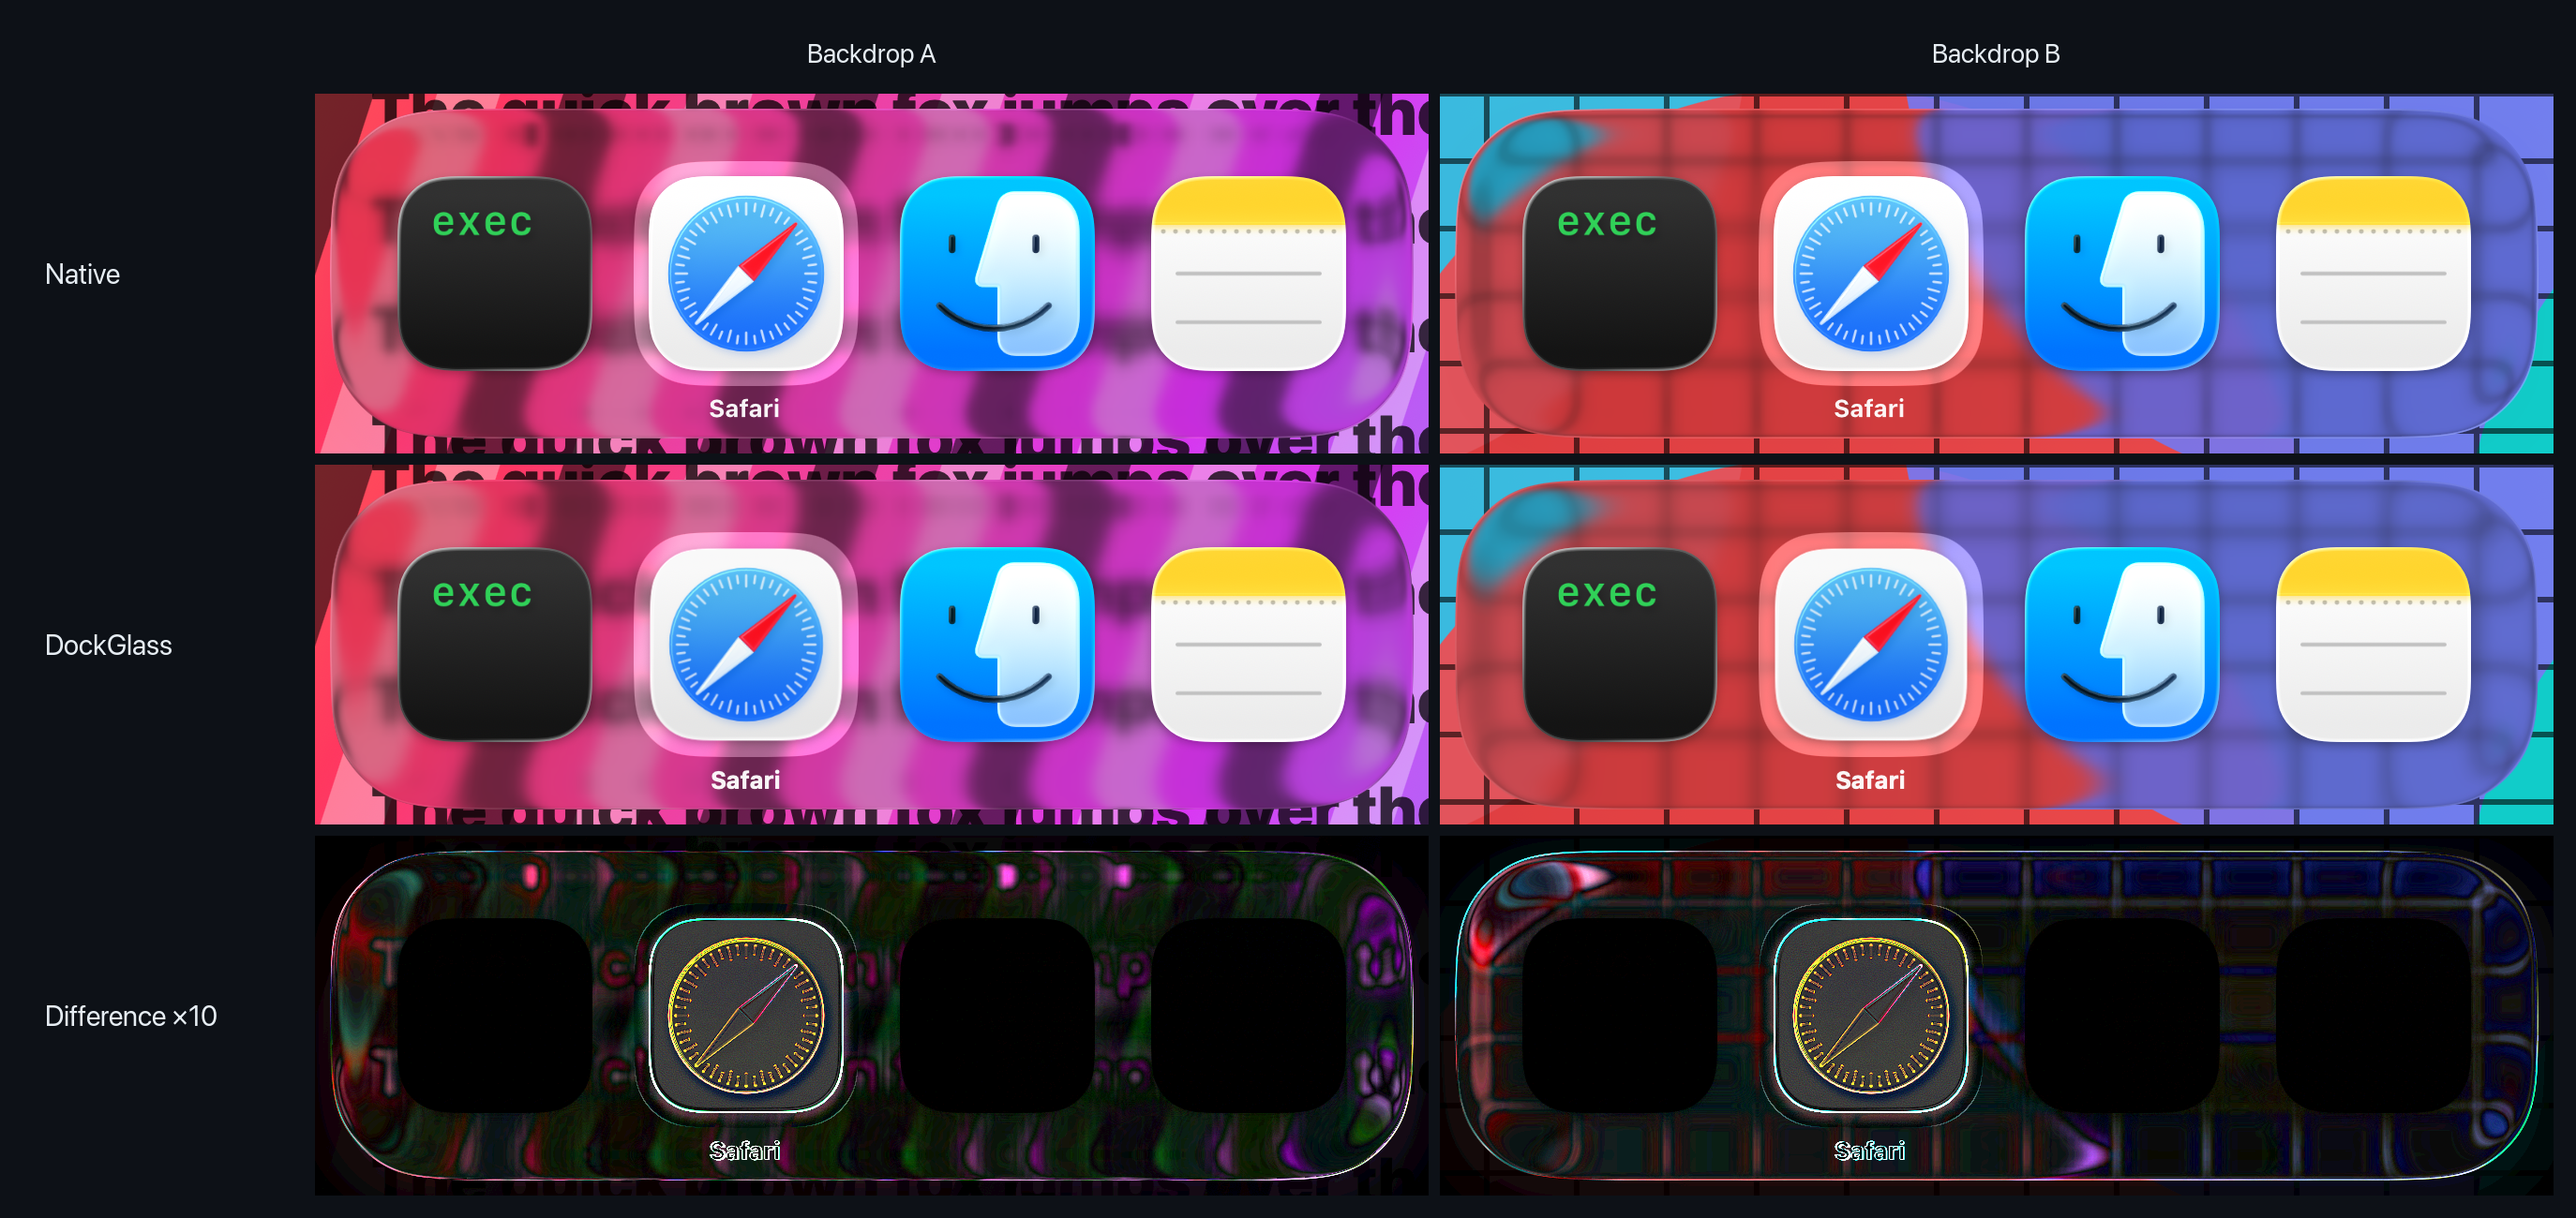
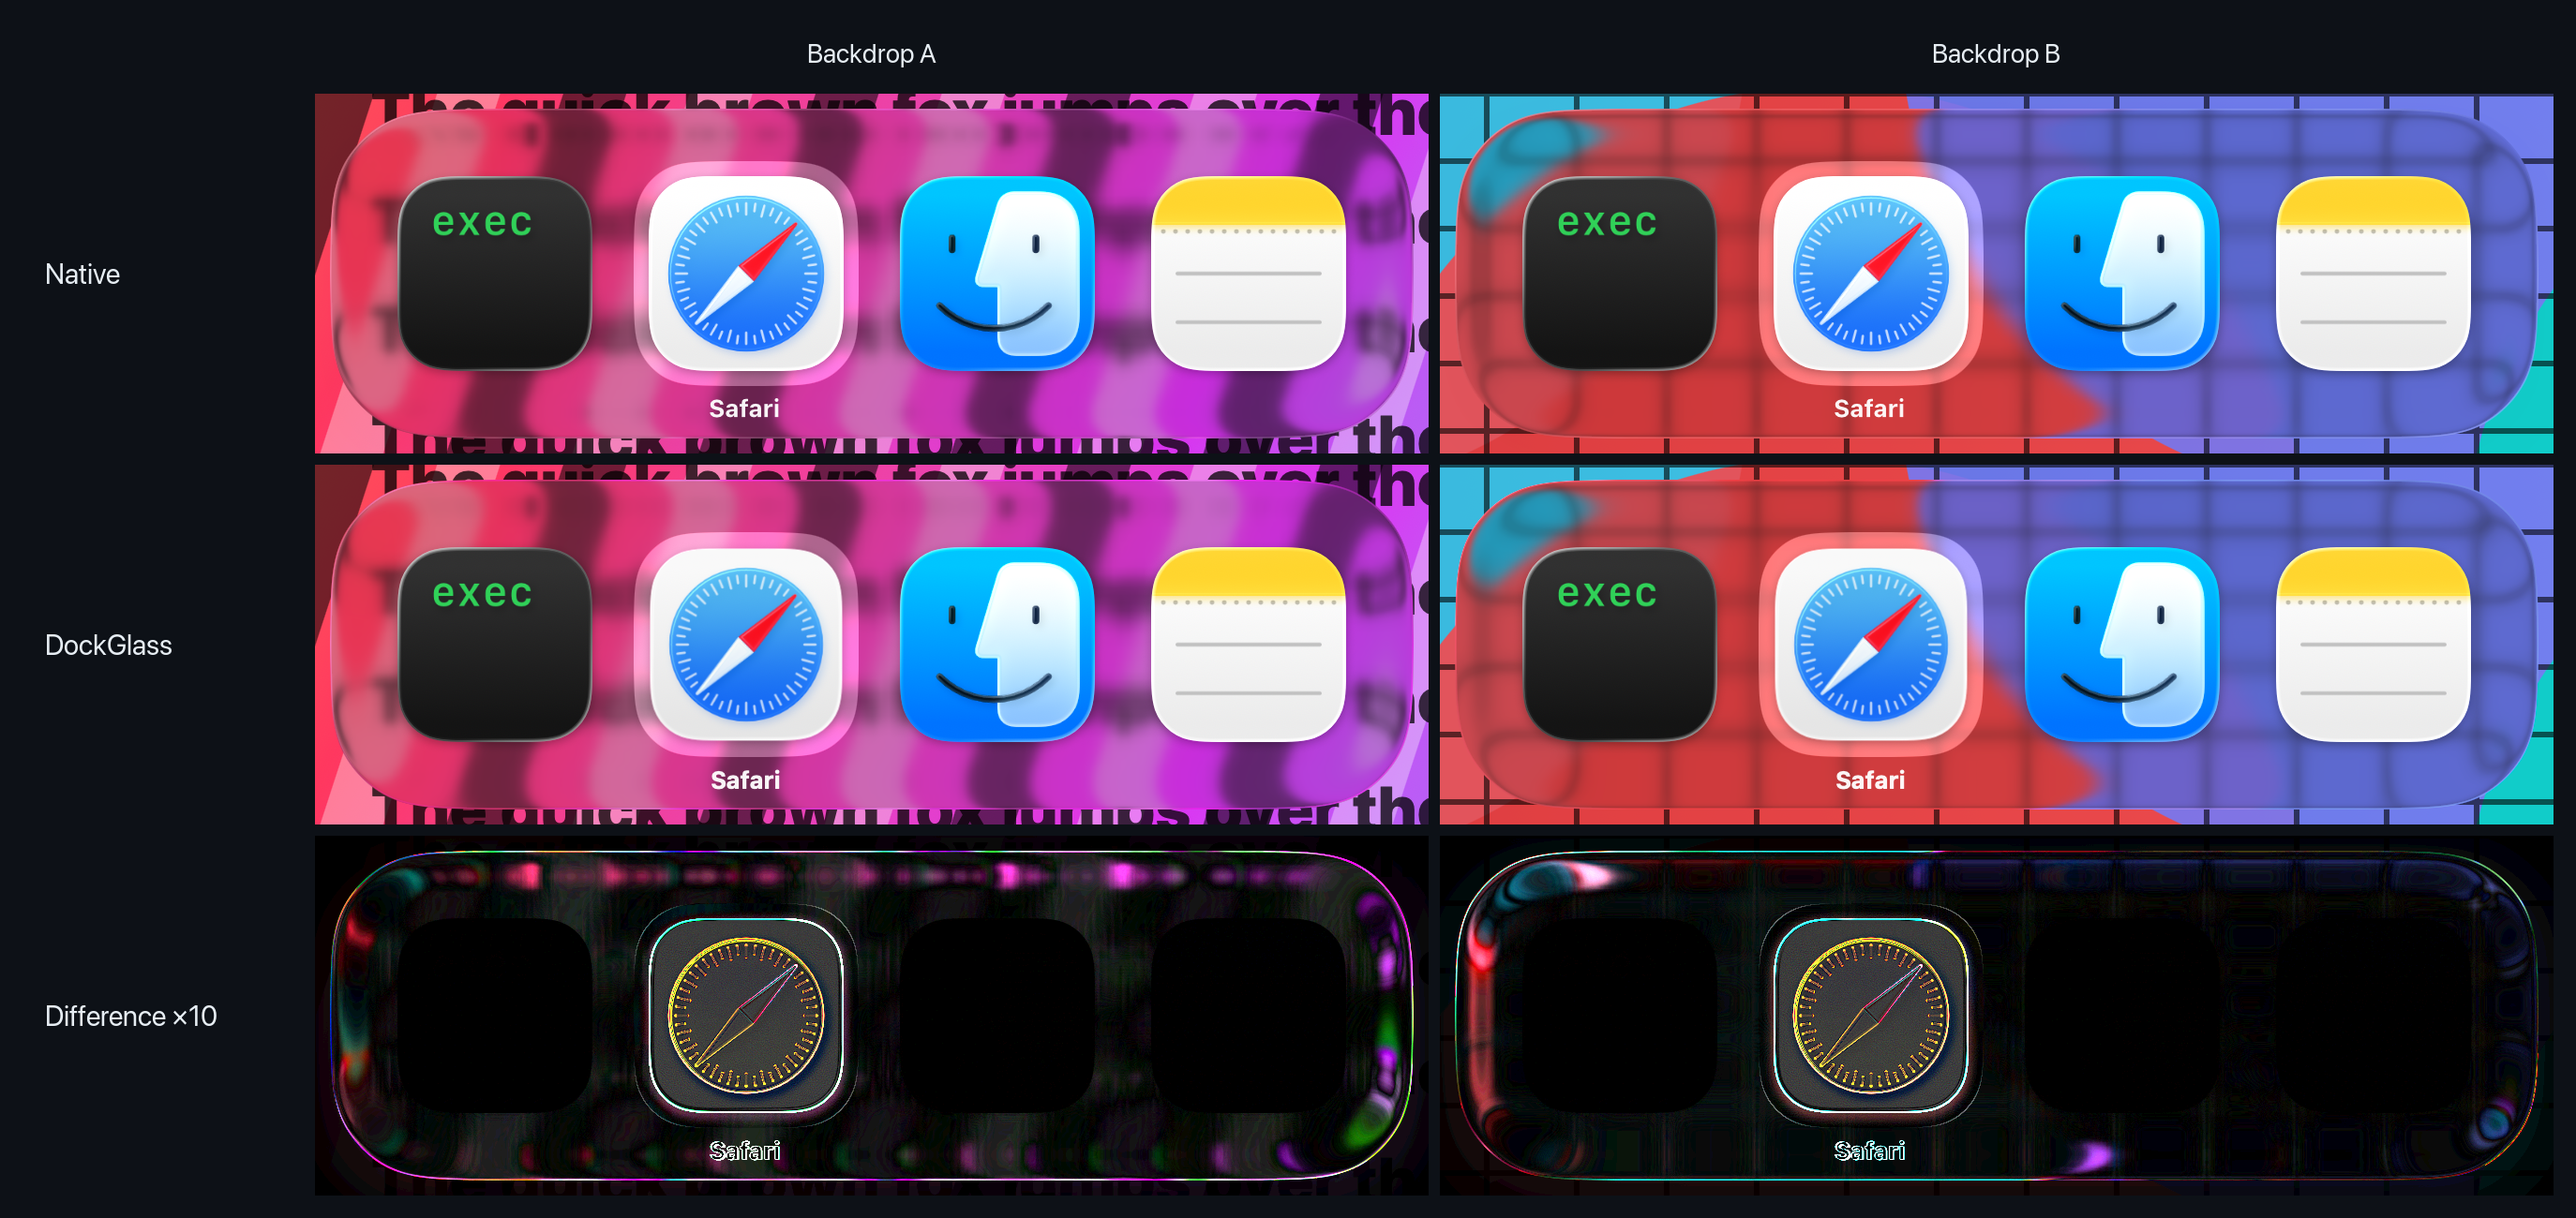
Refit macOS 26 in the active state with the system rim
macOS 26's switcher draws active too: refitted active, the plate matches as well or better
(light 2.66/2.37, dark 2.45/2.02 against 2.90/2.43 and 2.45/2.60), and the white stroke fits
to 0. glass-fit's rim extras become opt-in, since their 27 starting values changed 26's rim.

diff --git a/Tools/glass-fit/main.swift b/Tools/glass-fit/main.swift
@@ -179,7 +179,7 @@ if mode == "inspect" {
         window.displayIfNeeded()
         CATransaction.flush()
         RunLoop.main.run(until: Date().addingTimeInterval(0.3))
-        print("DockGlass status:", DockGlass.status)
+        print("DockGlass status:", DockGlass.status, " focus override:", DockGlass.canOverrideFocusState)
         window.orderOut(nil)
     }
     exit(0)
@@ -494,7 +494,7 @@ parameters.append(Parameter(name: "labelDX", value: startIcon.labelShift.width, 
 parameters.append(Parameter(name: "labelDY", value: startIcon.labelShift.height, step: 0.25, range: -3...3))
 // The system rim: properties of the specular highlight effect on the glass's SDF layer, and the
 // filter inputs that shape the bending and highlight inside the glass. Starting values are the
-// Dock variant's own (active state); `--extras` limits which are searched.
+// Dock variant's own (active state); `--extras all` or `--extras <names>` searches them.
 let highlightStart: [(String, Double, Double, ClosedRange<Double>)] = [
     ("sdf.keyAmount", 0.5, 0.1, 0...2), ("sdf.fillAmount", 0.5, 0.1, 0...2),
     ("sdf.keySpread", 1.513, 0.2, 0...3.2), ("sdf.fillSpread", 1.513, 0.2, 0...3.2),
@@ -512,7 +512,9 @@ let highlightStart: [(String, Double, Double, ClosedRange<Double>)] = [
 ]
 let extrasFilter = option("--extras").map { Set($0.split(separator: ",").map(String.init)) }
 if usesSystemRim && !fitsTintResponse {
-    for (name, value, step, range) in highlightStart where extrasFilter.map({ $0.contains(name) || $0.contains("all") }) ?? true {
+    // Opt-in: the starting values are macOS 27's Dock glass, and writing them elsewhere changes
+    // the rim being measured.
+    for (name, value, step, range) in highlightStart where extrasFilter.map({ $0.contains(name) || $0.contains("all") }) ?? false {
         parameters.append(Parameter(name: name, value: value, step: step, range: range))
     }
 }
@@ -589,6 +591,8 @@ func applyExtras() {
         for layer in layers where NSStringFromClass(type(of: layer)) == "CASDFLayer" {
             guard let current = (layer as NSObject).value(forKey: "effect") as? NSObject,
                   NSStringFromClass(type(of: current)) == "CASDFKeyFillHighlightEffect",
+                  // macOS 26's effect lacks some keys, and setting a missing one throws.
+                  current.responds(to: NSSelectorFromString(key)),
                   let effect = current.copy() as? NSObject else { continue }
             effect.setValue(parameter.value, forKey: key)
             // Mutating the layer's effect in place never reaches the render; assign a new one.

diff --git a/Sources/DockGlass/GlassTuning.swift b/Sources/DockGlass/GlassTuning.swift
@@ -270,34 +270,34 @@ public struct GlassLook: Sendable, Equatable {
         self.darkTint = darkTint
     }
 
-    /// Fitted on macOS 26.6.1 (25G76) against its own switcher, on `.clear` glass drawn in the
-    /// inactive state (the fitting tool's panel was never in an active window), which blurs slightly and bends a
-    /// wider band than 27's. Its filter lacks the brightness-ceiling and tint-fill inputs, so the
-    /// tint response has nothing to drive there. Mean absolute error: light 2.89/255 (stock clear
-    /// 11.09, 27's look 14.34); dark 2.70/255 (stock 9.72, 27's look 11.73).
+    /// Fitted on macOS 26.6.1 (25G76) against its own switcher: `.clear` glass drawn active, with
+    /// the system's own rim, which blurs slightly more and bends a wider band than 27's. Its filter
+    /// lacks the brightness-ceiling and tint-fill inputs, so the tint response has nothing to drive
+    /// there. Mean absolute error over the plate, backdrops A / B: light 2.66 / 2.37 out of 255,
+    /// dark 2.45 / 2.02.
     public static let macOS26 = GlassLook(
+        base: .clear, fittedFocus: .active,
         light: GlassTuning([
-            .blurRadius: 2,
-            .innerRefractionHeight: 22,
-            .innerRefractionAmount: -55,
-            .faceColorBlack: 0.116,
-            .faceColorWhite: 0.92,
-            .faceColorSaturation: 1.03,
-            .faceColorMaxLuma: 1,
-            .faceColorMaxLumaSDR: 1,
-        ]),
-        dark: GlassTuning([
-            .blurRadius: 2,
-            .innerRefractionHeight: 23,
-            .innerRefractionAmount: -55,
-            .faceColorBlack: 0.03,
-            .faceColorWhite: 0.77,
+            .blurRadius: 3.125,
+            .innerRefractionHeight: 24,
+            .innerRefractionAmount: -56.25,
+            .faceColorBlack: 0.2135,
+            .faceColorWhite: 0.9425,
             .faceColorSaturation: 0.95,
             .faceColorMaxLuma: 1,
             .faceColorMaxLumaSDR: 1,
         ]),
-        lightRim: GlassRim(opacity: 0.175, width: 0.875),
-        darkRim: GlassRim(opacity: 0.075, width: 0.875),
+        dark: GlassTuning([
+            .blurRadius: 3,
+            .innerRefractionHeight: 24,
+            .innerRefractionAmount: -55,
+            .faceColorBlack: 0.09,
+            .faceColorWhite: 0.785,
+            .faceColorSaturation: 0.95,
+            .faceColorMaxLuma: 1,
+            .faceColorMaxLumaSDR: 1,
+        ]),
+        lightRim: .none, darkRim: .none,
         lightSelection: .light, darkSelection: .dark,
         lightTint: .light, darkTint: .dark
     )

diff --git a/Docs/FINDINGS.md b/Docs/FINDINGS.md
@@ -125,8 +125,23 @@ The selection highlight still uses plus-darker grey 0.78 (light) and plus-lighte
 
 ### macOS 26 (history)
 
-macOS 26's look was fitted the old way, on `.clear` glass in an inactive panel, and keeps that:
-`GlassLook.macOS26` says so through `fittedFocus: .inactive`, so `.native` draws it inactive.
+macOS 26's look was first fitted the old way, on `.clear` glass in an inactive panel. Refitted in
+the active state on 2026-10-12, it matches 26's switcher at least as well, so 26's switcher draws
+active too and both versions now do. Plate error, backdrops A / B:
+
+| macOS 26.6.1 | Inactive fit | Active fit |
+|---|---|---|
+| Light | 2.90 / 2.43 | 2.66 / 2.37 |
+| Dark | 2.45 / 2.60 | 2.45 / 2.02 |
+
+The old look forced active scored 8.9 / 9.9 (light) and 6.1 / 6.3 (dark), so a fit only holds in
+the state it was made in. Untuned and active, `.clear` (10.4 / 7.8 light) comes closer than the
+Dock glass (11.3 / 10.7), so 26 keeps `.clear` as its base. With the active state, the fitted white
+stroke went to 0: 26 uses the system's own rim, as 27 does.
+
+Left free, the fit also moved the selected icon to full size and brightness (plate 1.51 / 1.24 in
+light). Those values are shared with 27, which fits 0.985 and −0.0225, so the 26 fit froze them;
+a per-version selected icon would close that gap.
 
 ## The tint slider
 
@@ -184,17 +199,18 @@ is 176pt tall with the same continuous corner (profile within a pixel of 27's at
 screen width; that is screen fitting, not a version difference.
 
 **The material differs.** 26's switcher blurs slightly and bends a wider, stronger band than 27's,
-and casts a faint shadow outside the plate that 27's does not. Fitted against 26's own switcher:
+and casts a faint shadow outside the plate that 27's does not. Fitted against 26's own switcher
+on `.clear` glass drawn active (the first, inactive fit in brackets):
 
 | Input | Light | Dark |
 |---|---|---|
-| `inputBlurRadius` | 2 | 2 |
-| `inputInnerRefractionHeight` | 22 | 23 |
-| `inputInnerRefractionAmount` | −55 | −55 |
-| `inputFaceColorMatrixBlack` | 0.116 | 0.03 |
-| `inputFaceColorMatrixWhite` | 0.92 | 0.77 |
-| `inputFaceColorMatrixSaturation` | 1.03 | 0.95 |
-| Rim | 0.175 opacity | 0.075 opacity |
+| `inputBlurRadius` | 3.125 (2) | 3 (2) |
+| `inputInnerRefractionHeight` | 24 (22) | 24 (23) |
+| `inputInnerRefractionAmount` | −56.25 (−55) | −55 (−55) |
+| `inputFaceColorMatrixBlack` | 0.2135 (0.116) | 0.09 (0.03) |
+| `inputFaceColorMatrixWhite` | 0.9425 (0.92) | 0.785 (0.77) |
+| `inputFaceColorMatrixSaturation` | 0.95 (1.03) | 0.95 (0.95) |
+| Rim | the system's (0.175 stroke) | the system's (0.075 stroke) |
 
 | Glass on 26 | Light error | Dark error |
 |---|---|---|
@@ -202,6 +218,7 @@ and casts a faint shadow outside the plate that 27's does not. Fitted against 26
 | 27's look | 14.34 | 11.73 |
 | **26's look** | **2.89** | **2.70** |
 | 26's look, after the geometry fixes (2026-10-12) | 2.67 | 2.52 |
+| **26's look, refitted active (2026-10-12)** | **2.51** | **2.24** |
 
 27's look is worse than stock on 26, which is why each version gets its own look. The last row
 is the same look re-measured with 27's padding, corner and panel-margin fixes in place; the other

diff --git a/README.md b/README.md
@@ -25,7 +25,7 @@ Requires macOS 26 or later and Swift 6.2. Add DockGlass with Swift Package Manag
 
 ```swift
 dependencies: [
-    .package(url: "https://github.com/thomplth/dock-glass.git", from: "0.4.0"),
+    .package(url: "https://github.com/thomplth/dock-glass.git", from: "0.5.0"),
 ],
 targets: [
     .target(name: "YourApp", dependencies: [
@@ -105,10 +105,16 @@ Drawn inactive, the Dock glass loses its rim and frosts over (error 9.7 / 12.2 o
 native in dark mode, 20 / 27 in light), and SwiftUI's own `.clear` in an overlay is further off
 still (15 / 19 dark, 25 / 31 light).
 
+The same modifier draws any glass in a chosen state, SwiftUI's own included, for the rest of a
+non-activating panel's glass:
+
+```swift
+content.glassEffect(.clear, in: shape).dockGlassFocusState(.active)
+```
 
 | | |
 |---|---|
-| `.native` (default) | The state the running system's look was fitted in: active on macOS 27, as the native switcher draws. Looks the same in every window. |
+| `.native` (default) | The state the running system's look was fitted in: active on macOS 26 and 27, as the native switcher draws. Looks the same in every window. |
 | `.active`, `.inactive` | Always that state, whatever the window. |
 | `.matchWindow` | Follows the host window, like any other glass. |
 
@@ -153,9 +159,11 @@ plate's top-left corner at 4×, beside the same glass drawn inactive and SwiftUI
 ### macOS 26
 
 macOS 26's switcher has the same geometry as 27's but a different material: it blurs slightly and
-bends a wider band. DockGlass carries a separate look fitted against it, in a macOS 26.6.1 virtual
-machine with stock apps only, so the whole plate shows. It is close but not identical: the
-difference is visible at ×10 across the glass and around the selected icon.
+bends a wider band. Its switcher draws active too. Untuned, `.clear` glass comes closer to it
+than the Dock glass does, so DockGlass tunes `.clear` drawn active, with the system's own rim, fitted in a macOS
+26.6.1 virtual machine with stock apps only, so the whole plate shows. It is close but not
+identical: the difference is visible at ×10 across the glass, along the rim and around the
+selected icon, which macOS 26 draws at full size.
 
 ![macOS 26 light mode: native switcher, DockGlass, and their difference times 10](media/macos26-light.png)
 
@@ -163,8 +171,8 @@ difference is visible at ×10 across the glass and around the selected icon.
 
 | macOS 26.6.1 | Glass | Rim (4pt band) | Whole plate |
 |---|---|---|---|
-| Light, backdrop A / B | 2.18 / 1.66 | 4.27 / 3.73 | 2.90 / 2.43 |
-| Dark, backdrop A / B | 2.24 / 2.34 | 2.56 / 3.34 | 2.45 / 2.60 |
+| Light, backdrop A / B | 2.37 / 2.00 | 3.63 / 3.41 | 2.66 / 2.37 |
+| Dark, backdrop A / B | 2.25 / 1.70 | 3.75 / 2.34 | 2.45 / 2.02 |
 
 ## System settings
 

diff --git a/AGENTS.md b/AGENTS.md
@@ -2,7 +2,7 @@
 
 DockGlass makes SwiftUI glass render like the macOS Dock and Cmd-Tab switcher. On macOS 27 it
 draws SwiftUI's private Dock glass in the active window state and tunes the private
-`glassBackground` filter behind it; macOS 26's look tunes `.clear` glass drawn inactive.
+`glassBackground` filter behind it; macOS 26's look tunes `.clear` glass, also drawn active.
 Everything it relies on is undocumented, so treat every value as measured, not designed.
 
 ## Rules
